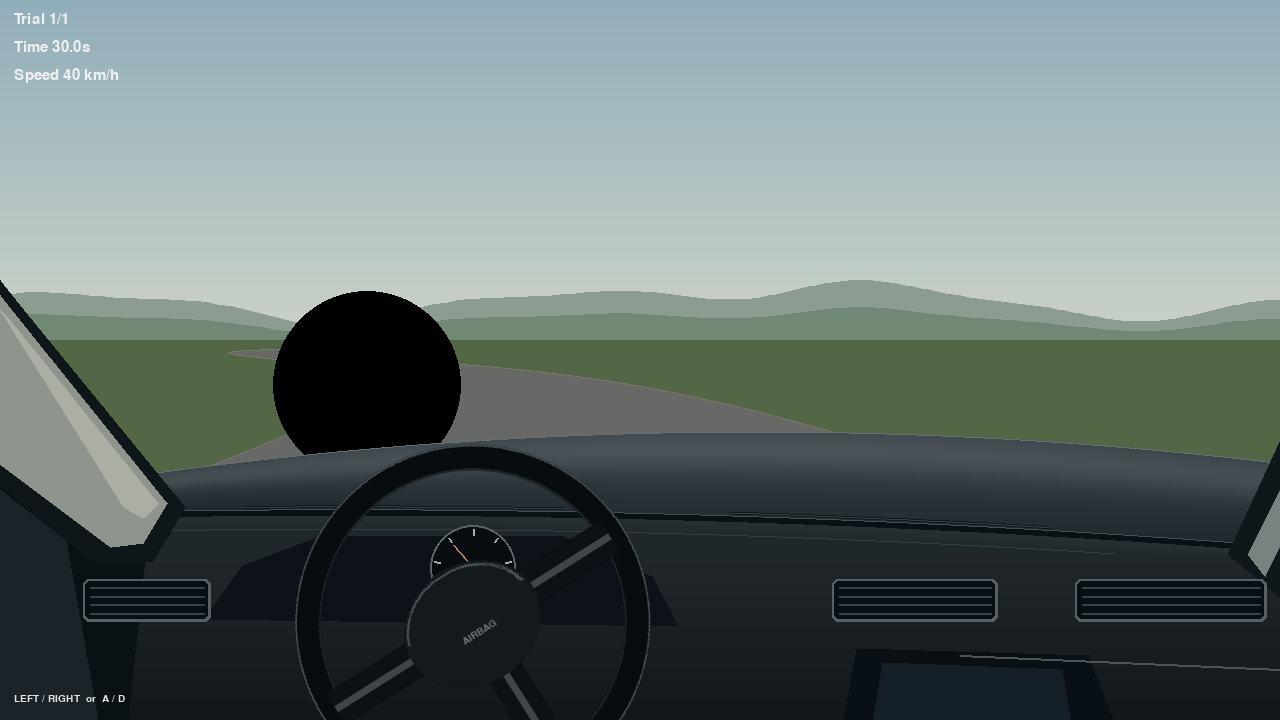
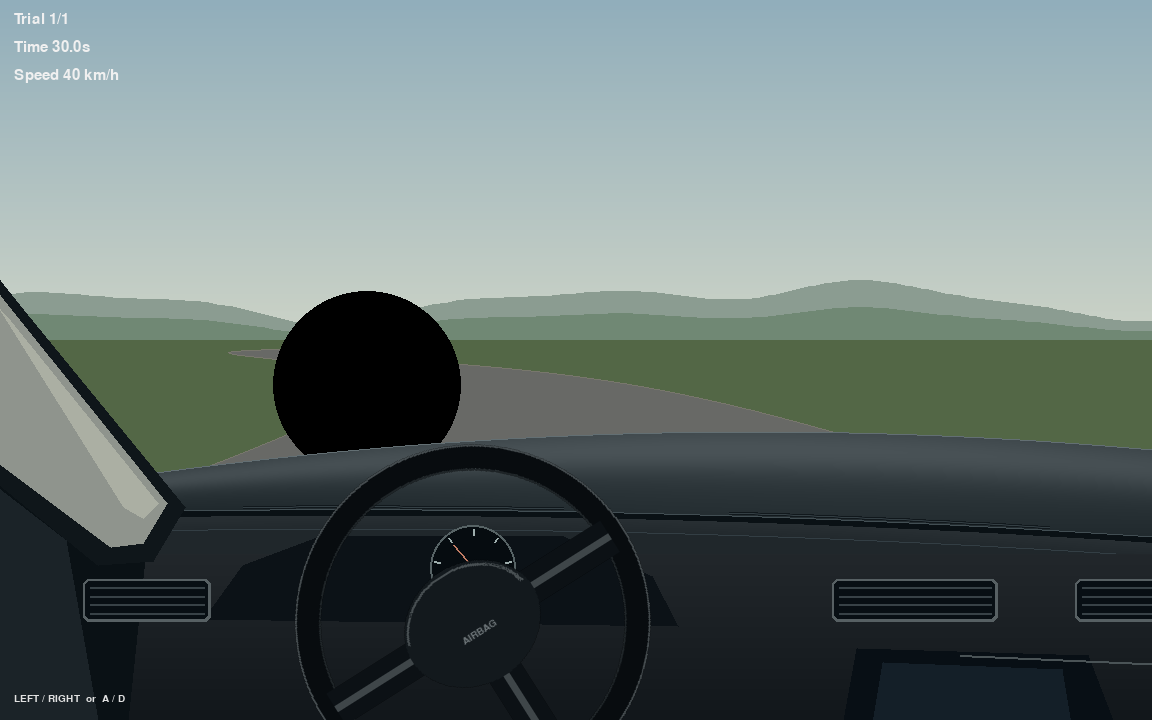
改画面比例

diff --git a/src/render.py b/src/render.py
@@ -13,8 +13,8 @@ class Projector:
 
     def __init__(self, config: Config):
         self.config = config
-        self.f = (config.screen_width / 2.0) / math.tan(math.radians(config.fov_deg) / 2.0)
-        self.cx = config.screen_width / 2.0
+        self.f = (config.scene_width / 2.0) / math.tan(math.radians(config.fov_deg) / 2.0)
+        self.cx = config.scene_width / 2.0
         self.cy = config.screen_height * config.horizon_frac
         pitch = math.radians(config.camera_pitch_deg)
         self.sin_pitch, self.cos_pitch = math.sin(pitch), math.cos(pitch)
@@ -46,7 +46,7 @@ class Renderer:
         self.small = pygame.font.Font(None, 15)
         self.big = pygame.font.Font(None, 42)
 
-        self.cx = config.screen_width / 2.0
+        self.cx = config.scene_width / 2.0
         self.horizon = self.projector.horizon
         self.f = self.projector.f
         self.h = config.camera_height
@@ -64,7 +64,7 @@ class Renderer:
 
     def _build_landscape(self) -> pygame.Surface:
         """Cache the featureless sky; moving terrain is drawn separately."""
-        w, h = self.config.screen_width, self.config.screen_height
+        w, h = self.config.scene_width, self.config.screen_height
         layer = pygame.Surface((w, h))
         horizon = int(self.horizon)
         for y in range(horizon + 1):
@@ -81,7 +81,7 @@ class Renderer:
         Continuous ridge functions extend beyond both edges, so turning cannot
         expose a blank strip or trigger a visible panorama wrap.
         """
-        w, h = self.config.screen_width, self.config.screen_height
+        w, h = self.config.scene_width, self.config.screen_height
         yaw = math.atan(road.center_dx(car.s)) + car.heading
         world_x = road.center_x(car.s) + car.x + self.config.camera_lateral_offset
         for distance, base, amplitude, color in [
@@ -102,7 +102,7 @@ class Renderer:
             pygame.draw.polygon(self.screen, color, ridge)
 
     def draw_scene(self, road: Road, car: Vehicle, mask, info: dict, debug: bool = False) -> None:
-        w, h = self.config.screen_width, self.config.screen_height
+        w, h = self.config.scene_width, self.config.screen_height
         self.screen.blit(self.landscape, (0, 0))
         self._draw_mountains(road, car)
         self._draw_road(road, car)
@@ -152,7 +152,7 @@ class Renderer:
 
     def _build_cockpit(self) -> pygame.Surface:
         """Cache fixed cabin geometry; all coordinates scale with the window."""
-        w, h = self.config.screen_width, self.config.screen_height
+        w, h = self.config.scene_width, self.config.screen_height
         layer = pygame.Surface((w, h), pygame.SRCALPHA)
         def poly(color, points):
             pygame.draw.polygon(layer, color, [(int(x*w), int(y*h)) for x, y in points])
@@ -227,7 +227,7 @@ class Renderer:
         return layer
 
     def _build_wheel(self) -> pygame.Surface:
-        size = max(100, int(min(self.config.screen_width*.31, self.config.screen_height*.57)))
+        size = max(100, int(min(self.config.scene_width*.31, self.config.screen_height*.57)))
         wheel = pygame.Surface((size, size), pygame.SRCALPHA)
         c, r = size//2, int(size*.45)
         pygame.draw.circle(wheel, (8,12,15), (c,c), r, max(9,int(size*.063)))
@@ -245,7 +245,7 @@ class Renderer:
         return wheel
 
     def _draw_cockpit(self, car: Vehicle) -> None:
-        w, h = self.config.screen_width, self.config.screen_height
+        w, h = self.config.scene_width, self.config.screen_height
         self.screen.blit(self.cockpit, (0,0))
         # A fixed speedometer supplies no road curvature or lateral-error cue.
         center = (int(.37*w), int((1-self.config.hood_height_frac+.19)*h))

diff --git a/src/config.py b/src/config.py
@@ -9,8 +9,9 @@ import yaml
 @dataclass
 class Config:
     # Display
-    screen_width: int = 1280
+    screen_width: int = 1152
     screen_height: int = 720
+    scene_crop_right: int = 128  # crop passenger side without squeezing the scene
     fps: int = 60
 
     # Camera / projection
@@ -65,6 +66,10 @@ class Config:
             raise ValueError(f"Unknown mask_style: {self.mask_style}")
         self.conditions = list(self.conditions)
         self.seeds = [int(s) for s in self.seeds]
+
+    @property
+    def scene_width(self) -> int:
+        return self.screen_width + self.scene_crop_right
 
     @property
     def max_steer_rad(self) -> float:
